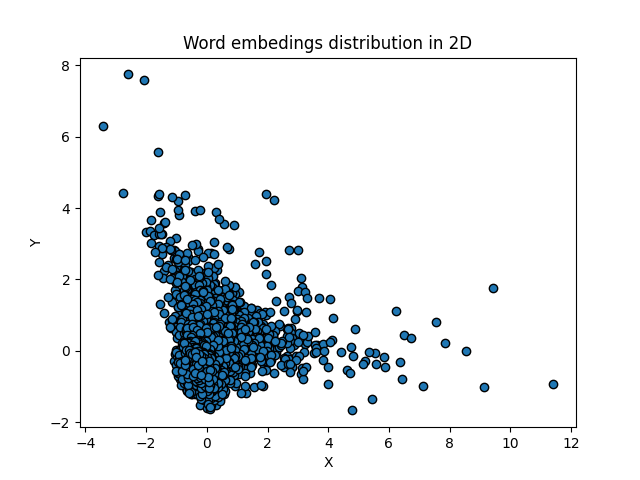
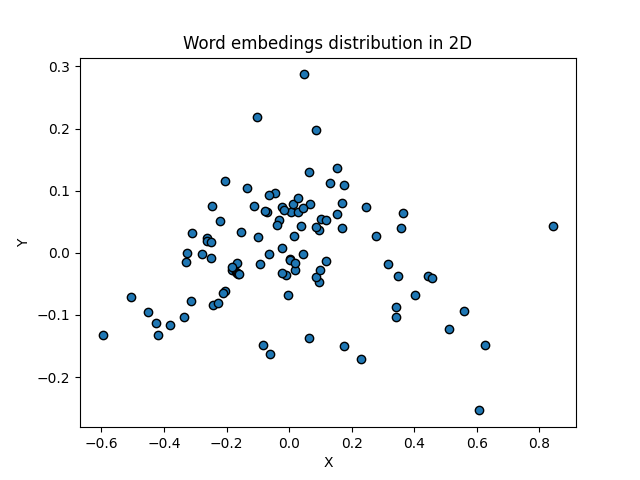
refactor

diff --git a/plot_word2vec.py b/plot_word2vec.py
@@ -18,12 +18,12 @@ path = "data/preprocessed_imdb.csv"
 df = pd.read_csv(path)
 
 
-X = np.array(df["lematized_tokens"])
-y = np.array(df["sentiment"])
+X = np.array(df["lematized_tokens"])[:100]
+y = np.array(df["sentiment"])[:100]
 
 
 model = Word2Vec(vector_size=VECTOR_SIZE, min_count=1, workers=CORES-1)
-X = model.fit(X)
+X, model = model.fit_transform(X)
 
 pca = PCA(n_components=2)
 result = pca.fit_transform(X)

diff --git a/model/word2vec.py b/model/word2vec.py
@@ -23,7 +23,7 @@ class Word2Vec(object):
         mev = MeanEmbeddingVectorizer(model)
         X_t = mev.transform(X)
         
-        return X_t
+        return X_t, model
     
     def fit(self, X, max_length=None):
         # The same as fit_transform but not meaning values
